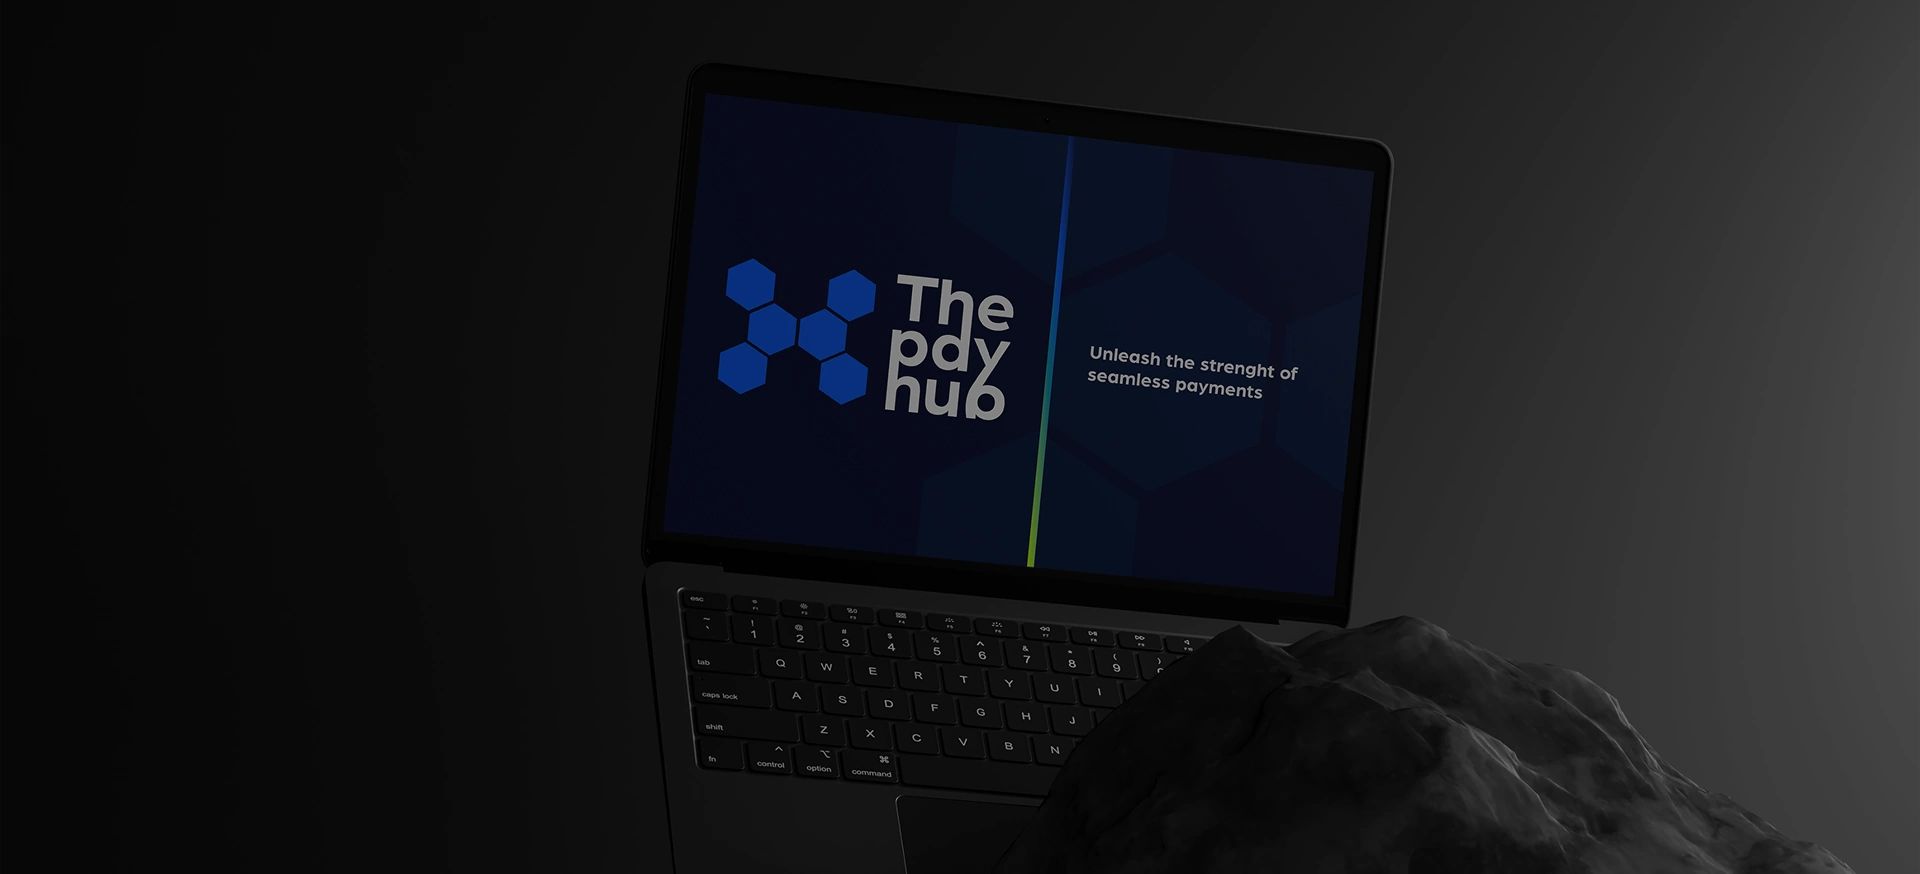
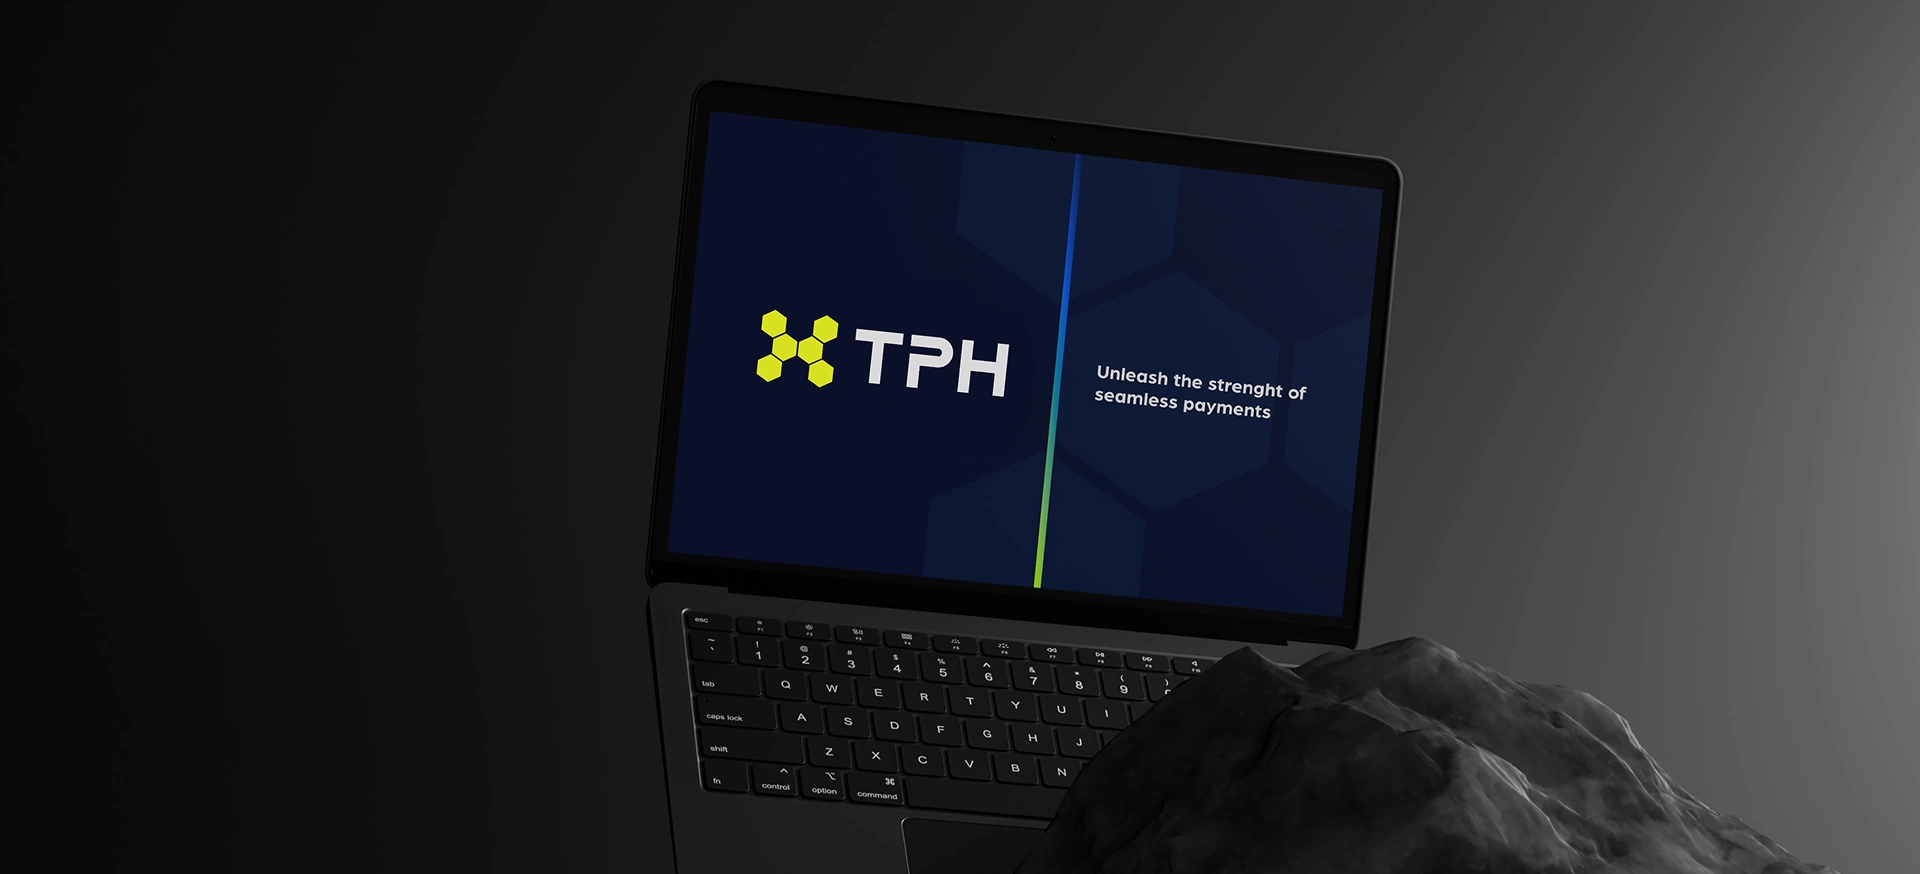
update content of news, home, company and contact

Changed region(s): [[0.3438, 0.0, 1.0, 1.0], [0.4062, 0.865, 0.4688, 0.9268], [0.3438, 0.7723, 0.375, 0.8341]]

diff --git a/app/components/pages/company/OurPartners.tsx b/app/components/pages/company/OurPartners.tsx
@@ -9,68 +9,38 @@ export default function OurPartners() {
         <h2 className="text-2xl lg:text-4xl font-bold text-secondary-500">Our Partners</h2>
         <p className="text-lg mt-2 text-gray-400">Strategic collaborations that power our global infrastructure</p>
         <div className="my-5 grid grid-cols-1 sm:grid-cols-2 lg:grid-cols-4 gap-6 flex items-stretch justify-center">
-          <div className="bg-card p-5 rounded-2xl flex flex-col items-center gap-5">
-            <div className="bg-linear-to-r from-primary-500 to-primary-400 p-2 rounded-2xl w-[90%] h-[60px] flex items-center justify-center gap-5">
-              <Image
-                src="/images/company/alchemy.webp"
-                alt="Alchemy"
-                width={0}
-                height={0}
-                className="w-auto h-[45px] object-contain"
-              />
-              <span className="text-sm lg:text-lg font-bold text-white">Alchemy</span>
-            </div>
-            <p className="text-lg mt-2 text-gray-400 flex-1">
-              Build anything onchain. The complete web3 development platform for wallets, rollups, and apps
-            </p>
-          </div>
-          <div className="bg-card p-5 rounded-2xl flex flex-col items-center gap-5">
-            <div className="bg-linear-to-r from-primary-500 to-primary-400 p-2 rounded-2xl w-[90%] h-[60px] flex items-center justify-center gap-5">
-              <Image
-                src="/images/company/metamap.webp"
-                alt="metamap"
-                width={0}
-                height={0}
-                className="w-auto h-[45px] object-contain"
-              />
-              <span className="text-sm lg:text-lg font-bold text-white">Metamap</span>
-            </div>
-            <p className="text-lg mt-2 text-gray-400">
-              Identity verification platform for businesses. MetaMap offers user onboarding and KYC & AML compliance
-              solutions.
-            </p>
-          </div>
-          <div className="bg-card p-5 rounded-2xl flex flex-col items-center gap-5">
-            <div className="bg-linear-to-r from-primary-500 to-primary-400 p-2 rounded-2xl w-[90%] h-[60px] flex items-center justify-center gap-5">
-              <Image
-                src="/images/company/aws--logo.webp"
-                alt="metamap"
-                width={0}
-                height={0}
-                className="w-auto h-[45px] object-contain"
-              />
-              <span className="text-sm lg:text-lg font-bold text-white">AWS</span>
-            </div>
-            <p className="text-lg mt-2 text-gray-400">
-              a comprehensive and widely adopted cloud computing platform that provides over 200 fully featured services
-            </p>
-          </div>
-          <div className="bg-card p-5 rounded-2xl flex flex-col items-center gap-5">
-            <div className="bg-linear-to-r from-primary-500 to-primary-400 p-2 rounded-2xl w-[90%] h-[60px] flex items-center justify-center gap-5">
-              <Image
-                src="/images/company/polygon.webp"
-                alt="metamap"
-                width={0}
-                height={0}
-                className="w-auto h-[45px] object-contain"
-              />
-              <span className="text-sm lg:text-lg font-bold text-white">Polygon</span>
-            </div>
-            <p className="text-lg mt-2 text-gray-400">
-              Polygon (formerly Matic Network) is a blockchain platform which aims to create a multi-chain blockchain
-              system compatible with Ethereum.{' '}
-            </p>
-          </div>
+          <Image
+            src="/images/company/aws.webp"
+            alt="aws"
+            width={0}
+            height={0}
+            sizes="300px"
+            className="w-full h-full"
+          />
+          <Image
+            src="/images/company/metamap.webp"
+            alt="metamap"
+            width={0}
+            height={0}
+            sizes="300px"
+            className="w-full h-full"
+          />
+          <Image
+            src="/images/company/alchemy.webp"
+            alt="alchemy"
+            width={0}
+            height={0}
+            sizes="300px"
+            className="w-full h-full"
+          />
+          <Image
+            src="/images/company/polygon.webp"
+            alt="polygon"
+            width={0}
+            height={0}
+            sizes="300px"
+            className="w-full h-full"
+          />
         </div>
       </div>
     </div>

diff --git a/app/data/news.tsx b/app/data/news.tsx
@@ -21,15 +21,15 @@ export const newsData: Array<News> = [
     img: '/images/news/news1.webp',
     category: 'Product Updates',
     date: 'May 10, 2025',
-    title: 'ThePayHub Launches Enhanced API for Enterprise Clients',
-    desc: 'Our new enterprise API offers advanced features including real-time reporting, customizable workflows, and enhanced security protocols.',
+    title: 'TPH Nears Completion of U.S. MSB License',
+    desc: 'ThePayHub is in the final stage of securing its U.S. Money Services Business (MSB) license. This will enhance its regulatory framework and allow affiliated fintechs and clients to operate under a robust and compliant ecosystem. Stay tuned for the official announcement.',
   },
   {
     img: '/images/news/news2.webp',
     category: 'Industry Insights',
     date: 'May 5, 2025',
-    title: 'The Future of Cross-Border Payments: Trends to Watch in 2025',
-    desc: 'Our analysis of emerging trends in global payments and how businesses can prepare for the evolving landscape.',
+    title: 'Nsegundos Joins TPH Ecosystem for LATAM Fiat Services',
+    desc: 'Nsegundos, a FinCEN-registered fintech operator, is now fully affiliated with ThePayHub. With operations across Panama, Chile, Colombia, and Peru, they bring regulated local fiat entry and exit for users across LATAM — all directly accessible through the TPH ecosystem.',
   },
   {
     img: '/images/news/news3.webp',
@@ -42,8 +42,36 @@ export const newsData: Array<News> = [
     img: '/images/news/news4.webp',
     category: 'Company News',
     date: 'April 15, 2025',
-    title: 'The Basics about  Cryptocurrency',
-    desc: 'Learn what you need to know before you invest in a virtual currency.',
+    title: 'STM Joins as Strategic Affiliate to Expand Crypto-Fiat Flow',
+    desc: 'STM, a regulated crypto OTC desk in Poland, has joined ThePayHub ecosystem. STM is currently pursuing licensing in Dubai (DMCC), and will collaborate with other affiliated platforms to offer secure crypto-to-fiat rails across multiple jurisdictions.',
+  },
+  {
+    img: '/images/news/news5.webp',
+    category: 'Company News',
+    date: 'April 28, 2025',
+    title: 'TPH Ecosystem Hits $175M+ Monthly Volume',
+    desc: 'In Q2 2025, total ecosystem volume across XPZ and PXG surpassed $175 million per month. With a consistent quarterly growth rate of 20%, TPH is on track to reach $300–$500 million in monthly volume by early 2026.',
+  },
+  {
+    img: '/images/news/news6.webp',
+    category: 'Product Updates',
+    date: 'April 10, 2025',
+    title: 'XPZ Launches Built-In Token Payment Gateway',
+    desc: 'XPZ now offers merchants a built-in payment gateway that supports tokenized invoice settlement using USXP. The gateway enables near-instant client payments and internal conversion for fiat payouts, with full compliance and transparency.',
+  },
+  {
+    img: '/images/news/news7.webp',
+    category: 'Industry Insights',
+    date: 'May 5, 2025',
+    title: 'TPH Opens Door to New Fintech Affiliates',
+    desc: 'ThePayHub welcomes new fintechs and payment providers to join its ecosystem. Applicants must meet internal KYC/AML standards and demonstrate strong compliance and tech integration capabilities. Successful affiliates gain access to shared infrastructure, faster onboarding, and ecosystem-wide liquidity.',
+  },
+  {
+    img: '/images/news/news8.webp',
+    category: 'Company News',
+    date: 'April 28, 2025',
+    title: 'BRXP Token Goes Live for Brazilian Clients',
+    desc: 'BRXP is now active within XPZ, enabling Brazilian users to buy, hold, and settle transactions using a compliant stable format. This is part of TPH’s ongoing initiative to simplify regional settlement while maintaining transparency and speed.',
   },
 ]
 

diff --git a/app/components/pages/thehub/TrustedCompanies.tsx b/app/components/pages/thehub/TrustedCompanies.tsx
@@ -19,7 +19,7 @@ export default function HereOrThere() {
             <p className="text-sm text-gray-400">Business Clients</p>
           </div>
           <div className="flex flex-col w-full sm:w-[200px] bg-card p-5 rounded-xl text-center gap-5">
-            <h3 className="text-md font-bold text-secondary-500">$65B+</h3>
+            <h3 className="text-md font-bold text-secondary-500">$65M+</h3>
             <p className="text-sm text-gray-400">Monthly Volume</p>
           </div>
           <div className="flex flex-col w-full sm:w-[200px] bg-card p-5 rounded-xl text-center gap-5">
@@ -45,12 +45,11 @@ export default function HereOrThere() {
             <div className="border border-secondary-500 rounded-full w-fit py-1 px-2 flex items-center justify-center">
               <span>Featured</span>
             </div>
-            <h3 className="text-md font-bold text-white mt-2">
-              Cryptocurrency Explained With Pros and Cons for Investment
-            </h3>
+            <h3 className="text-md font-bold text-white mt-2">Why We Use Blockchain</h3>
             <p className="text-sm my-3 text-white">
-              Discover what cryptocurrency is, how it works, and whether it`s the right investment for you by exploring
-              its key advantages and risks.
+              Blockchain helps power the TPH ecosystem by making payments faster, more secure, and fully transparent. It
+              keeps a clear record of every transaction so our clients and partners can trust the system and operate
+              with confidence.
             </p>
           </div>
           <div className="w-full md:w-1/2">
@@ -64,7 +63,6 @@ export default function HereOrThere() {
             />
           </div>
         </div>
-        <ContactUs />
       </div>
     </div>
   )

diff --git a/app/components/Navigation.tsx b/app/components/Navigation.tsx
@@ -35,7 +35,7 @@ export default function Navigation() {
     {href: '/news', label: 'News'},
     {href: '/faq', label: 'FAQ'},
     {href: '/contact', label: 'Contact'},
-    {href: '/signup', label: 'Sign Up'},
+    {href: '/register', label: 'Register'},
   ]
 
   return (
@@ -97,7 +97,7 @@ export default function Navigation() {
                 href={item.href}
                 className={`nav-link border rounded-full px-4 py-2 text-sm font-semibold transition-colors duration-200 ${
                   activeMenu === item.href ? 'active' : ' hover:text-secondary-500'
-                } ${'/signup' === item.href ? 'border-secondary-500' : 'border-transparent'}`}>
+                } ${'/register' === item.href ? 'border-secondary-500' : 'border-transparent'}`}>
                 {item.label}
               </Link>
             ))}
@@ -149,7 +149,7 @@ export default function Navigation() {
                     href={item.href}
                     className={`block py-2 px-4 border nav-link rounded-full hover:bg-secondary-700 hover:text-white transition-colors duration-200 ${
                       activeMenu === item.href ? 'active' : ''
-                    } ${'/signup' === item.href ? 'border-secondary-500' : 'border-transparent'}`}
+                    } ${'/register' === item.href ? 'border-secondary-500' : 'border-transparent'}`}
                     onClick={() => setIsMenuOpen(false)}>
                     {item.label}
                   </Link>

diff --git a/app/components/pages/news/LatestNews.tsx b/app/components/pages/news/LatestNews.tsx
@@ -32,11 +32,13 @@ export default function LatestNews() {
           ))}
         </div>
       </div>
-      <div className="my-10 flex flex-row items-stretch lg:justify-center gap-5 w-full overflow-x-auto scrollable-container">
+      <div className="mt-5 w-[100%] overflow-x-auto scrollable-container gap-6 flex flex-row items-stretch mb-5">
         {newsData.map(
           (item, index) =>
             (activeCategory === allNews || item.category == activeCategory) && (
-              <div key={index} className="flex flex-col bg-card border border-primary-300 rounded-2xl w-[300px]">
+              <div
+                key={index}
+                className="flex flex-col p-5 bg-card border border-primary-300 rounded-2xl min-w-[300px]">
                 <Image
                   src={item.img}
                   alt={item.title}
@@ -45,7 +47,7 @@ export default function LatestNews() {
                   sizes="100px"
                   className="w-full h-[180px] rounded-t-2xl"
                 />
-                <div className="flex flex-row justify-between items-center px-5 py-2">
+                <div className="flex flex-row justify-between items-start px-5 py-2">
                   <h5 className="text-sm font-bold text-secondary-500 whitespace-nowrap">{item.category}</h5>
                   <h5 className="text-sm font-bold text-secondary-500 whitespace-nowrap">{item.date}</h5>
                 </div>

diff --git a/app/components/Footer.tsx b/app/components/Footer.tsx
@@ -66,7 +66,7 @@ export default function Footer() {
                 </p>
               </div>
               <div className="flex flex-row gap-1 mt-2">
-                <a href="https://facebook.com/thepayhub" target="_blank" rel="noopener noreferrer">
+                {/* <a href="https://facebook.com/thepayhub" target="_blank" rel="noopener noreferrer">
                   <svg width="40" height="41" viewBox="0 0 40 41" fill="none" xmlns="http://www.w3.org/2000/svg">
                     <rect
                       y="0.600098"
@@ -149,7 +149,7 @@ export default function Footer() {
                       </linearGradient>
                     </defs>
                   </svg>
-                </a>
+                </a> */}
               </div>
             </div>
 
@@ -168,8 +168,8 @@ export default function Footer() {
                   <Link href="/solutions" className="hover:text-white">
                     Solutions
                   </Link>
-                  <Link href="/signup" className="hover:text-white">
-                    Sign Up
+                  <Link href="/register" className="hover:text-white">
+                    Register
                   </Link>
                 </nav>
               </div>

diff --git a/app/components/pages/company/JoinUs.tsx b/app/components/pages/company/JoinUs.tsx
@@ -15,16 +15,16 @@ export default function JoinUs() {
             Discover how our vision and technology can help your business thrive in the global marketplace
           </p>
           <div className="flex flex-col sm:flex-row gap-5">
-            <button
+            <a
               className="text-white bg-primary-300 px-4 py-2 text-lg font-semibold rounded-full transition-transform duration-300 ease-in-out hover:scale-105 active:scale-95"
-              onClick={() => console.log('Get in Touch')}>
+              href="mailto:contact@thepayhub.io">
               Get in Touch
-            </button>
-            <button
+            </a>
+            <a
               className="text-white bg-transparent border border-white px-4 py-2 text-lg font-semibold rounded-full transition-transform duration-300 ease-in-out hover:scale-105 active:scale-95"
-              onClick={() => console.log('Join Our Team')}>
-              Join Our Team
-            </button>
+              href="mailto:support@thepayhub.io">
+              Contact Support
+            </a>
           </div>
         </div>
       </div>

diff --git a/app/components/pages/news/TopPage.tsx b/app/components/pages/news/TopPage.tsx
@@ -17,12 +17,11 @@ export default function TopPage() {
             <div className="border border-secondary-500 rounded-full w-fit py-1 px-2 flex items-center justify-center">
               <span>Featured</span>
             </div>
-            <h3 className="text-md font-bold text-white mt-2">
-              Cryptocurrency Explained With Pros and Cons for Investment
-            </h3>
+            <h3 className="text-md font-bold text-white mt-2">Why We Use Blockchain</h3>
             <p className="text-sm my-3 text-white">
-              Discover what cryptocurrency is, how it works, and whether it`s the right investment for you by exploring
-              its key advantages and risks.
+              Blockchain helps power the TPH ecosystem by making payments faster, more secure, and fully transparent. It
+              keeps a clear record of every transaction so our clients and partners can trust the system and operate
+              with confidence.
             </p>
           </div>
           <div className="w-full md:w-1/2">

diff --git a/app/components/pages/contact/NeedTechSupport.tsx b/app/components/pages/contact/NeedTechSupport.tsx
@@ -10,16 +10,16 @@ export default function NeedTechSupport() {
         </p>
       </div>
       <div className="flex flex-col md:flex-row items-center justify-center gap-5 w-full">
-        <button
+        <a
           className="text-black bg-secondary-500 px-4 py-2 text-sm font-semibold rounded-full transition-transform duration-300 ease-in-out hover:scale-105 active:scale-95"
-          onClick={() => console.log('Visit Developer Hub')}>
-          Visit Developer Hub
-        </button>
-        <button
+          href="mailto:contact@thepayhub.io">
+          Contact Our Team
+        </a>
+        <a
           className="text-white bg-transparent border border-white px-4 py-2 text-sm font-semibold rounded-full transition-transform duration-300 ease-in-out hover:scale-105 active:scale-95"
-          onClick={() => console.log('Visit Developer Hub')}>
-          Visit Developer Hub
-        </button>
+          href="mailto:support@thepayhub.io">
+          E-mail support
+        </a>
       </div>
     </div>
   )

diff --git a/app/data/contact.tsx b/app/data/contact.tsx
@@ -2,20 +2,20 @@ export const supportsData: Array<Supports> = [
   {
     title: 'Technical Support',
     desc: 'Need help with integration or experiencing technical issues? Our support engineers are here to assist.',
-    button: 'Get Support',
-    action: () => console.log('Get Support'),
+    mailToText: 'Get Support',
+    mailTo: 'mailto:contact@thepayhub.io',
   },
   {
     title: 'Sales Inquiry',
     desc: 'Interested in our solutions? Our sales team is ready to discuss how ThePayHub can help your business.',
-    button: 'Contact Sales',
-    action: () => console.log('Contact Sales'),
+    mailToText: 'Contact Sales',
+    mailTo: 'mailto:sales@thepayhub.io',
   },
   {
     title: 'Partnership Opportunities',
     desc: 'Interested in partnering with ThePayHub? Let`s explore how we can create value together.',
-    button: 'Discuss Partnership',
-    action: () => console.log('Discuss Partnership'),
+    mailToText: 'Discuss Partnership',
+    mailTo: 'mailto:support@thepayhub.io',
   },
 ]
 

diff --git a/app/components/pages/thehub/HomeHubIntro.tsx b/app/components/pages/thehub/HomeHubIntro.tsx
@@ -64,18 +64,6 @@ export default function HomeHubIntro() {
                 efficiency, transparency, and real value.
               </p>
             </div>
-            <div className="flex flex-col sm:flex-row gap-5 mt-5">
-              <button
-                className="text-black bg-primary-400 px-4 py-2 text-lg font-semibold rounded-full transition-transform duration-300 ease-in-out hover:scale-105 active:scale-95"
-                onClick={() => console.log('learn more')}>
-                Learn more
-              </button>
-              <button
-                className="text-white border bg-transparent px-4 py-2 text-lg font-semibold rounded-full transition-transform duration-300 ease-in-out hover:scale-105 active:scale-95"
-                onClick={() => console.log('Get in touch with our team')}>
-                Get in touch with our team
-              </button>
-            </div>
           </div>
         </div>
       </div>

diff --git a/app/components/pages/thehub/TopPage.tsx b/app/components/pages/thehub/TopPage.tsx
@@ -34,8 +34,8 @@ export default function TopPage() {
                 Explore our solutions
               </button>
               <button
-                className="text-white border bg-transparent px-4 py-2 text-lg font-semibold rounded-full transition-transform duration-300 ease-in-out hover:scale-105 active:scale-95"
-                onClick={() => console.log('schedule a demo')}>
+                className="cursor-pointer text-white border bg-transparent px-4 py-2 text-lg font-semibold rounded-full transition-transform duration-300 ease-in-out hover:scale-105 active:scale-95"
+                onClick={() => open('https://calendly.com/thepayhub-sales/30min', '_blank')}>
                 Schedule a demo
               </button>
             </div>
